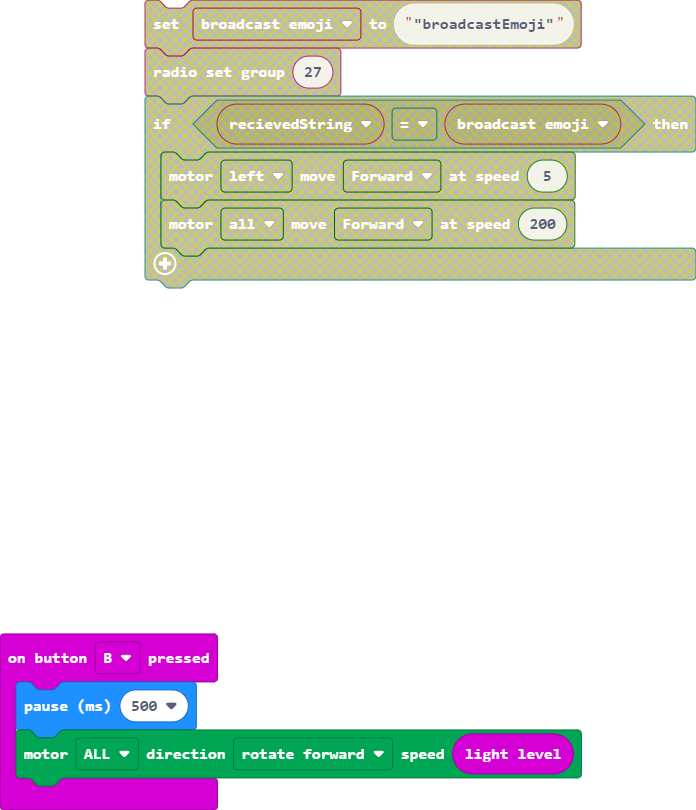
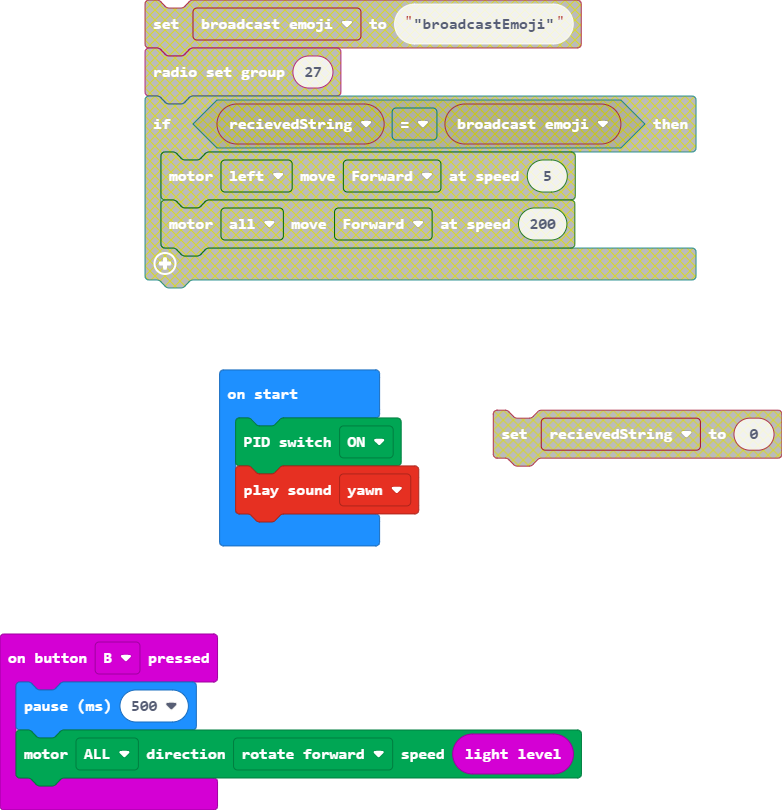
Doing ultrasonic sensor and huskylens stuff

diff --git a/main.ts b/main.ts
@@ -2,3 +2,5 @@ input.onButtonPressed(Button.B, function () {
     basic.pause(500)
     DFRobotMaqueenPlus.mototRun(Motors.ALL, Dir.CW, input.lightLevel())
 })
+DFRobotMaqueenPlus.PID(PID.ON)
+soundExpression.yawn.play()
